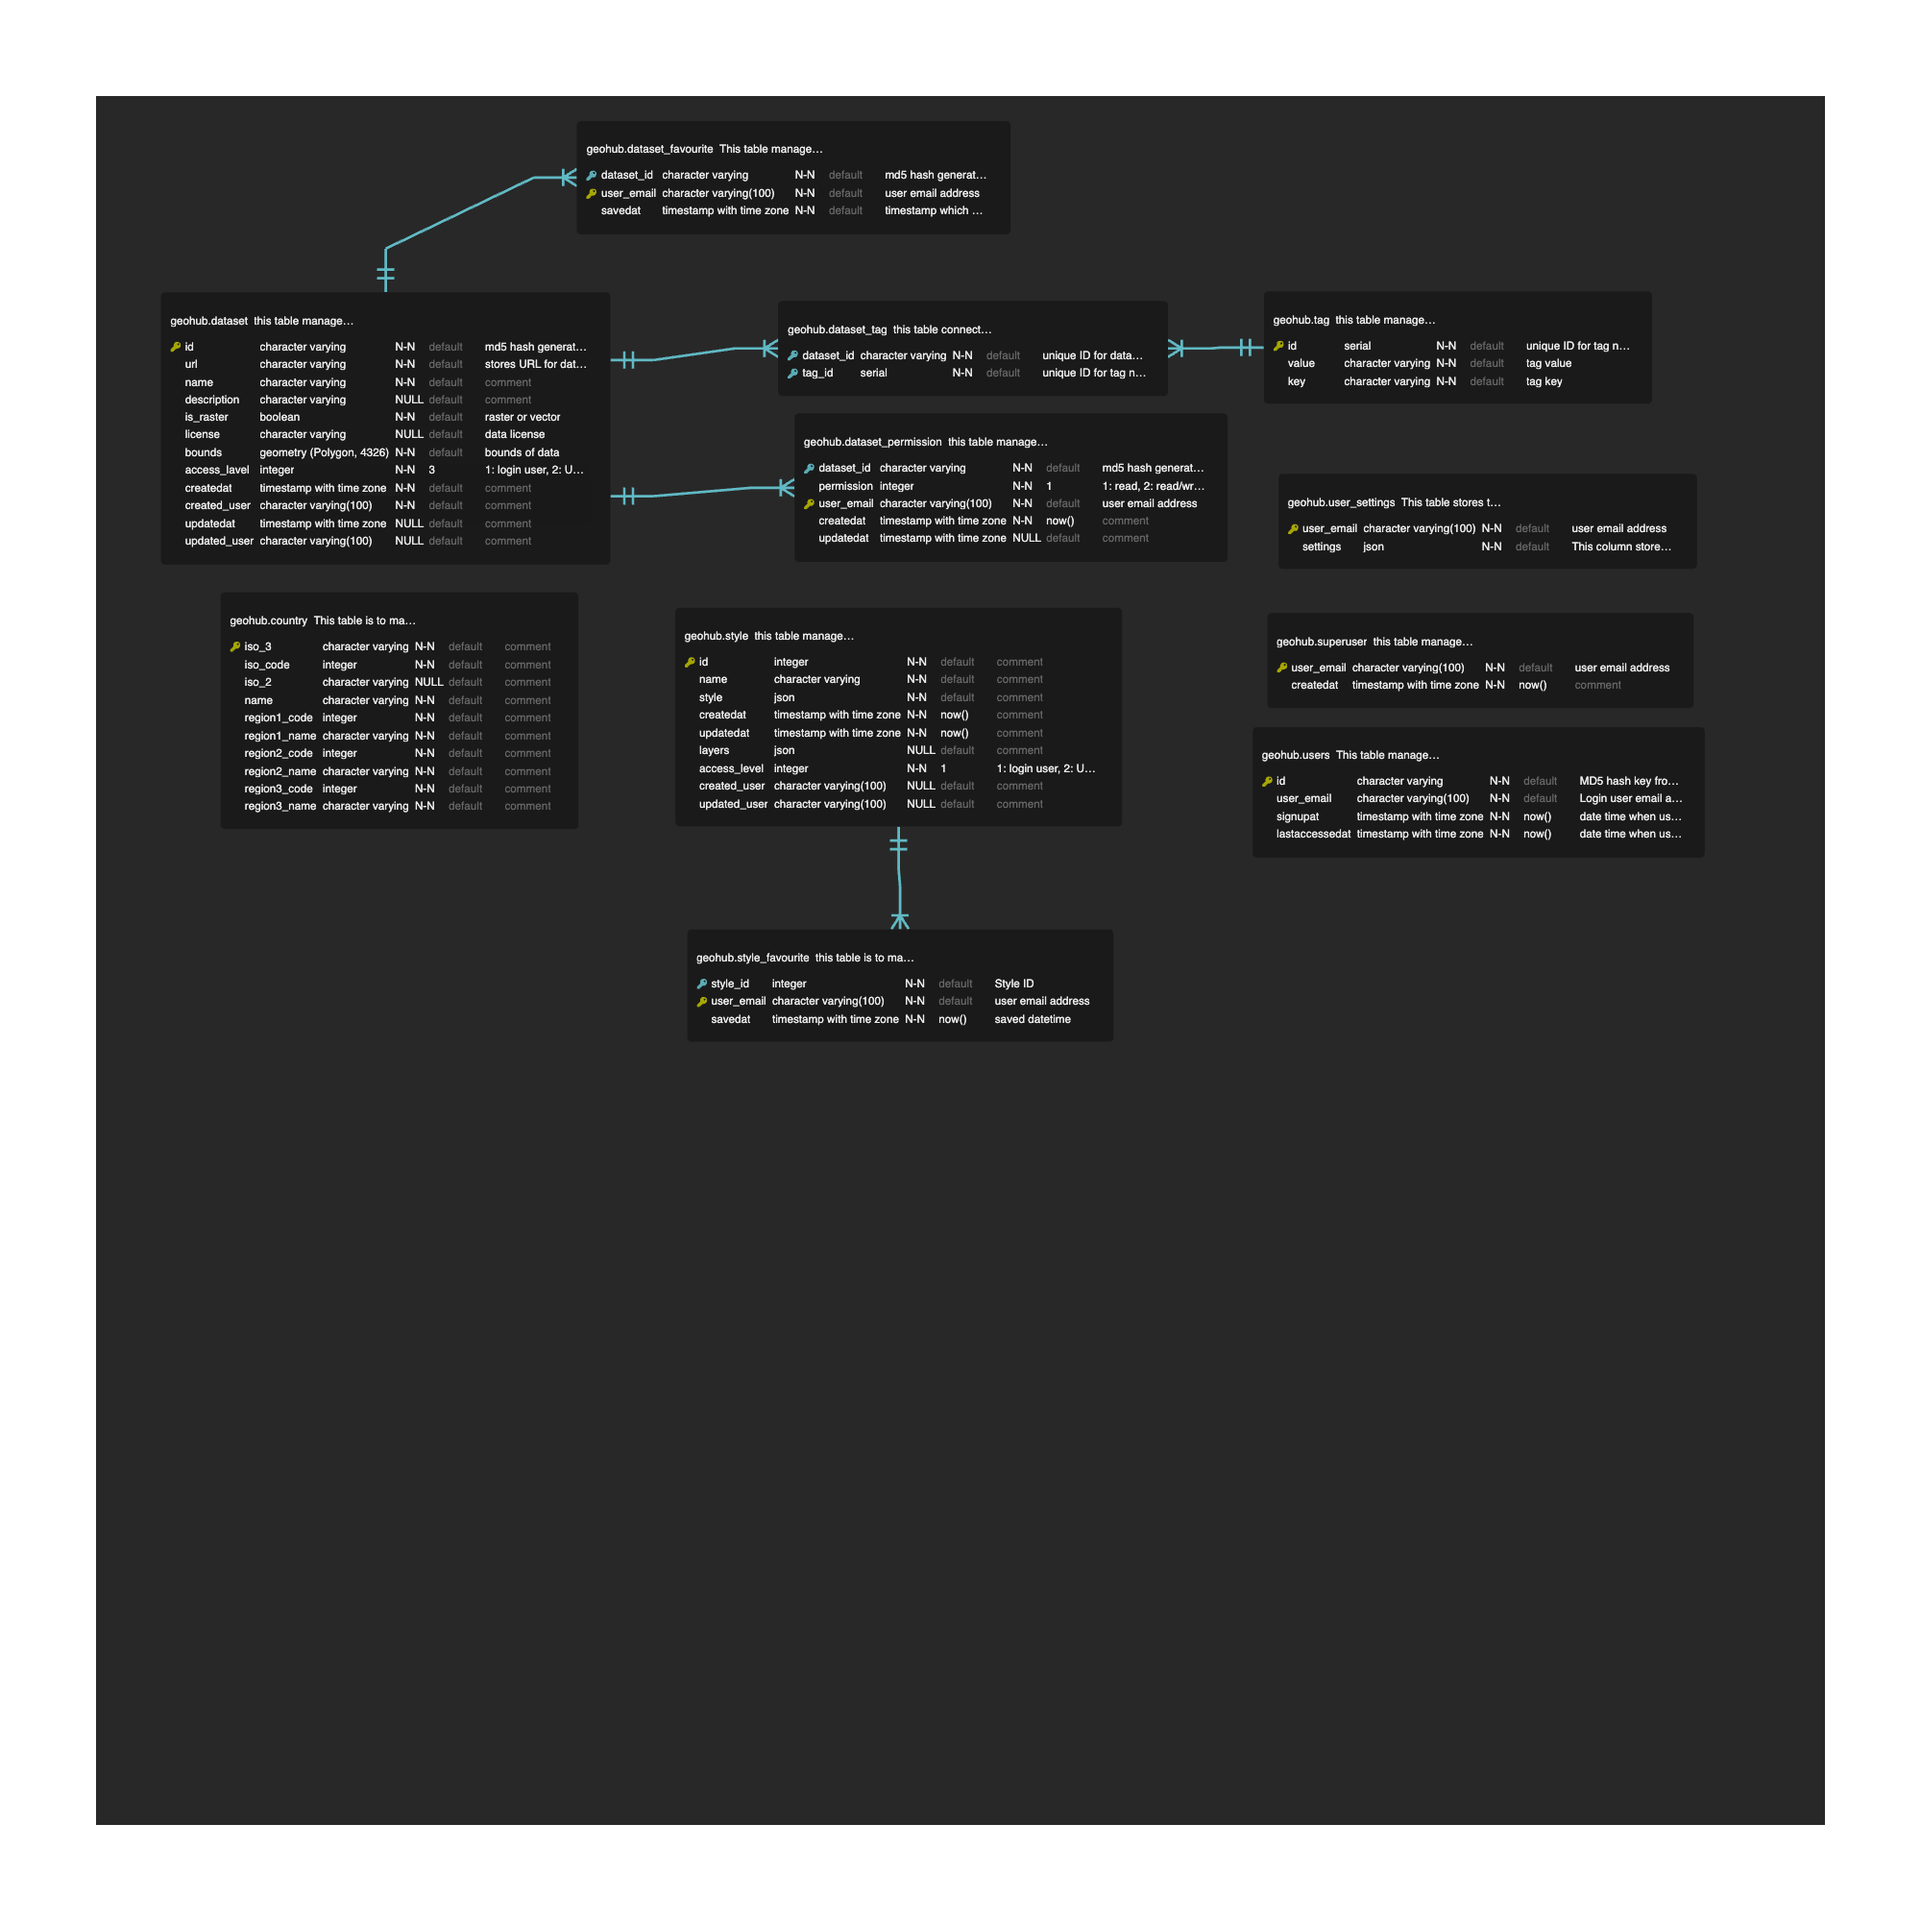
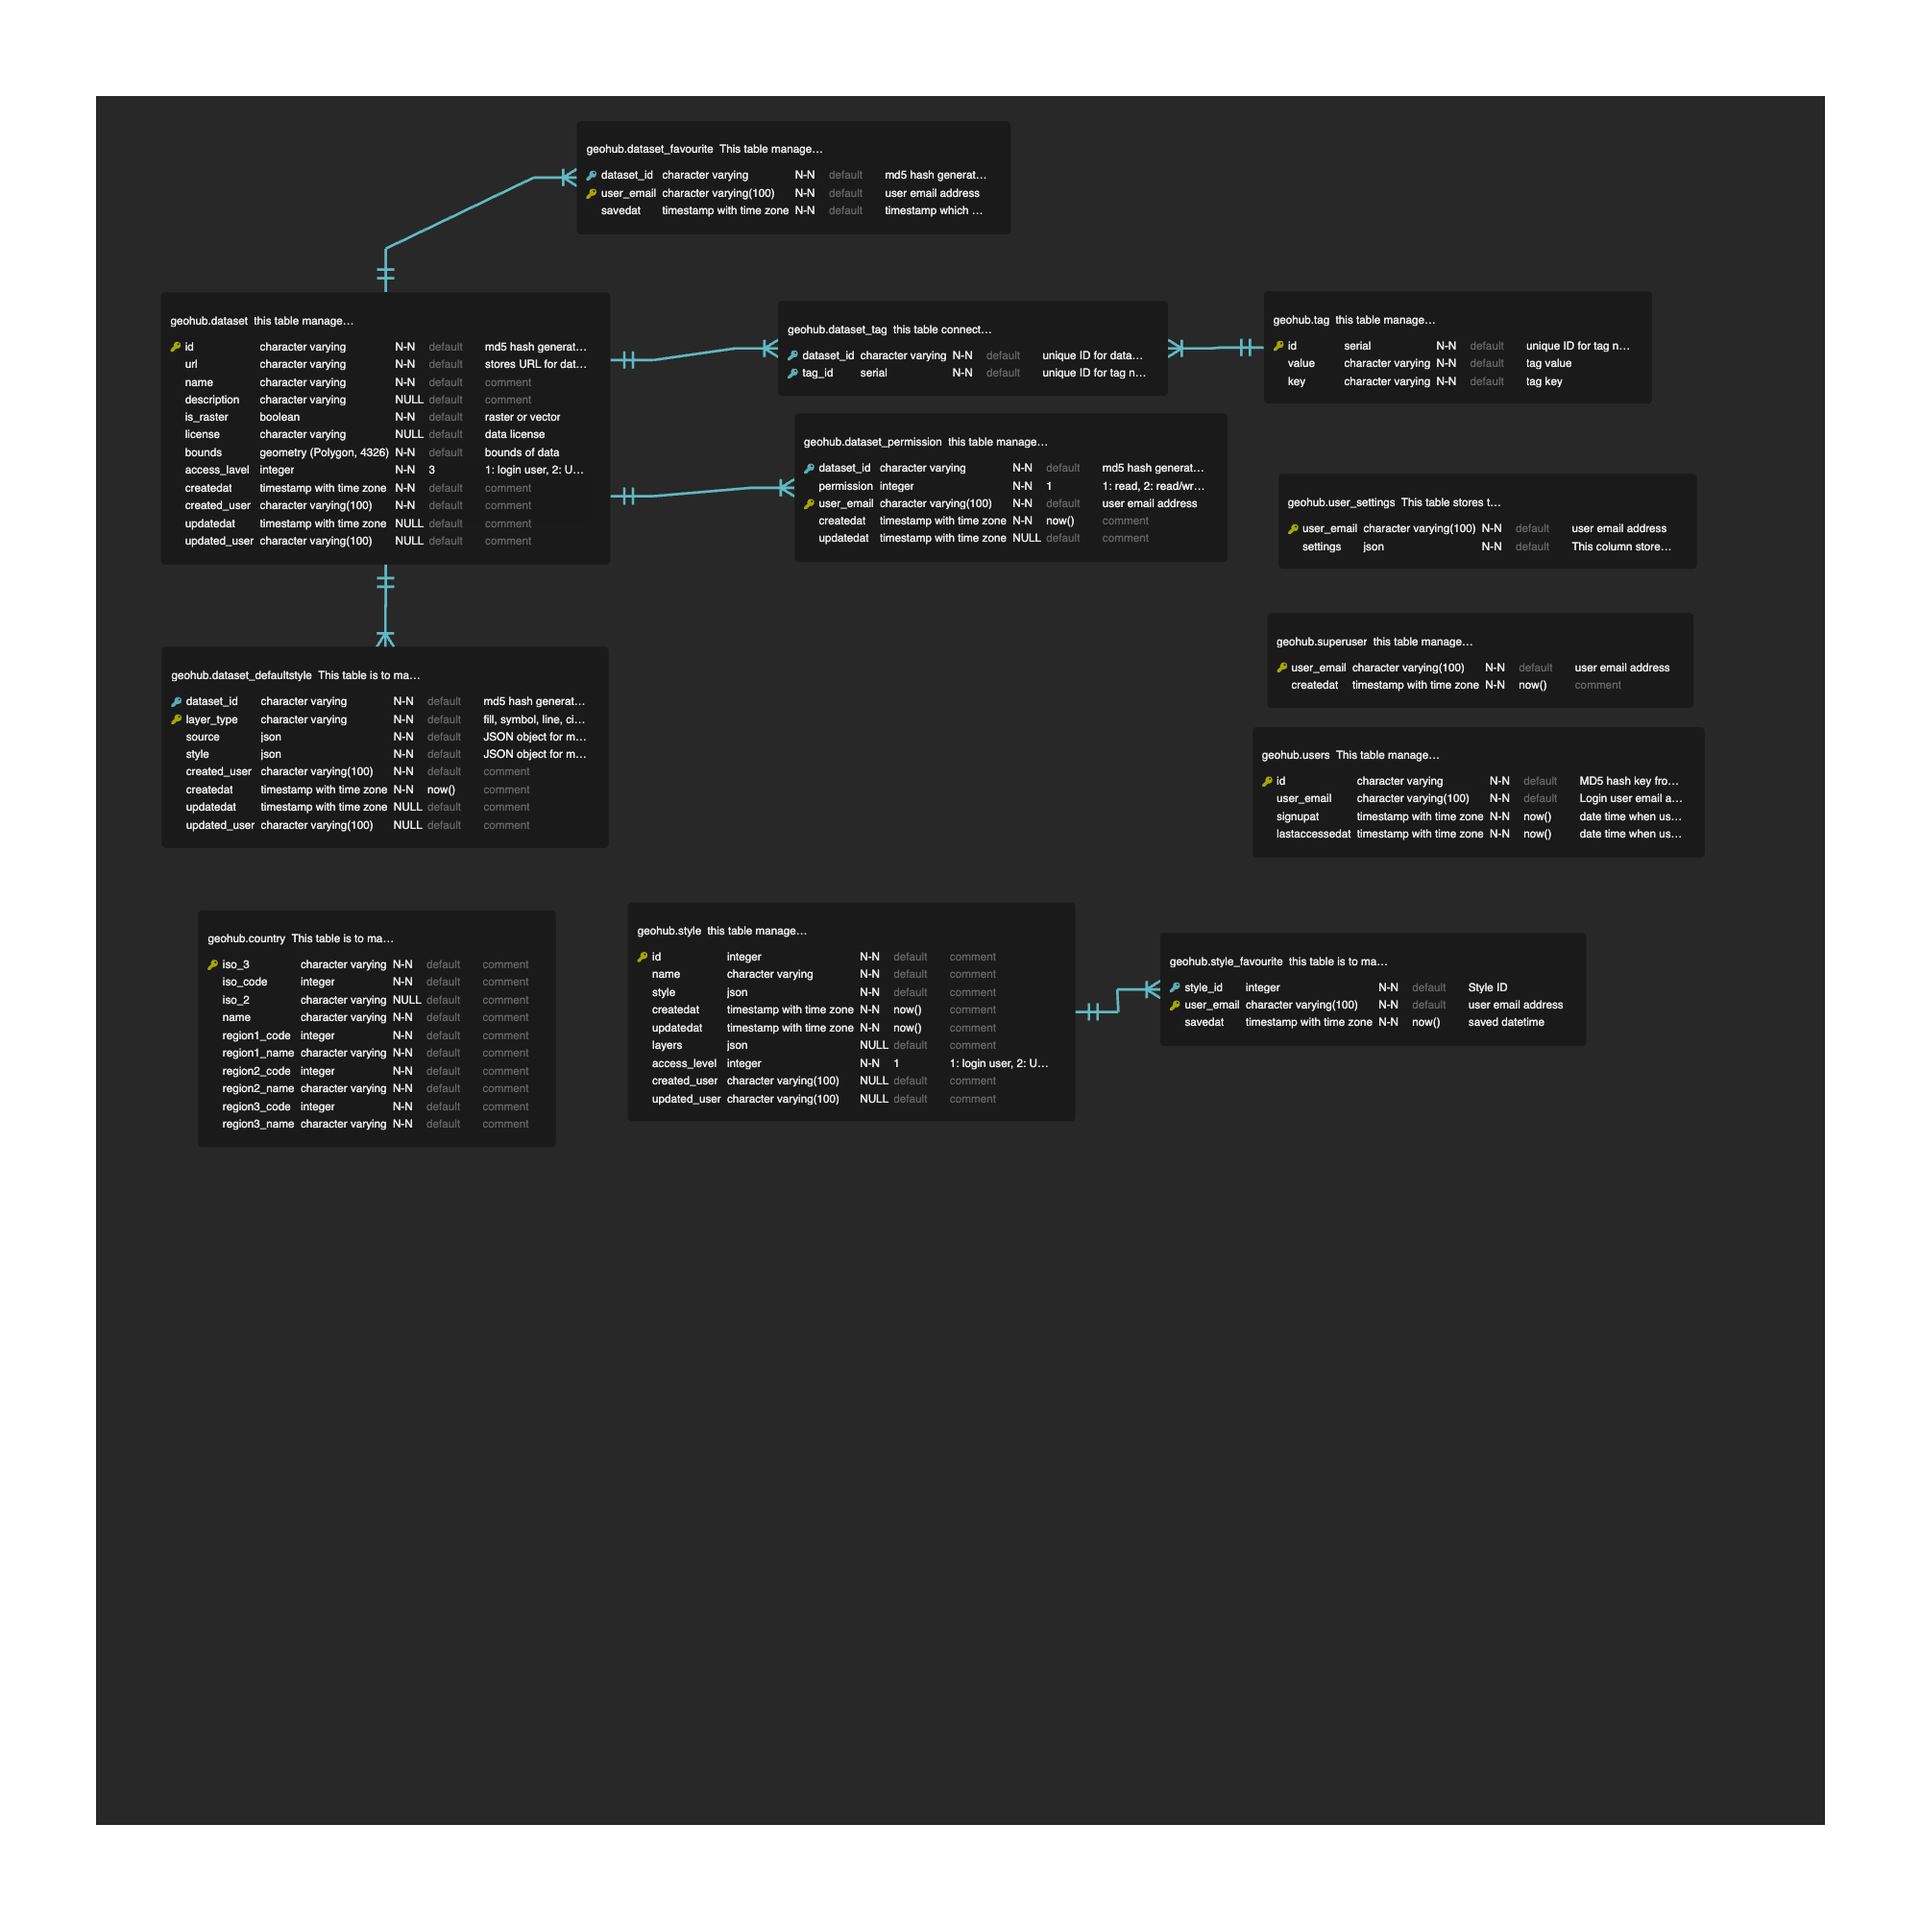
doc: added new defaultstyle table for dataset (#2040)
* doc: added new defaultstyle table for dataset

* changeset

diff --git a/.changeset/grumpy-bags-laugh.md b/.changeset/grumpy-bags-laugh.md
@@ -1,0 +1,5 @@
+---
+"geohub": patch
+---
+
+doc: add new table to manage default style for each dataset in ERD.
